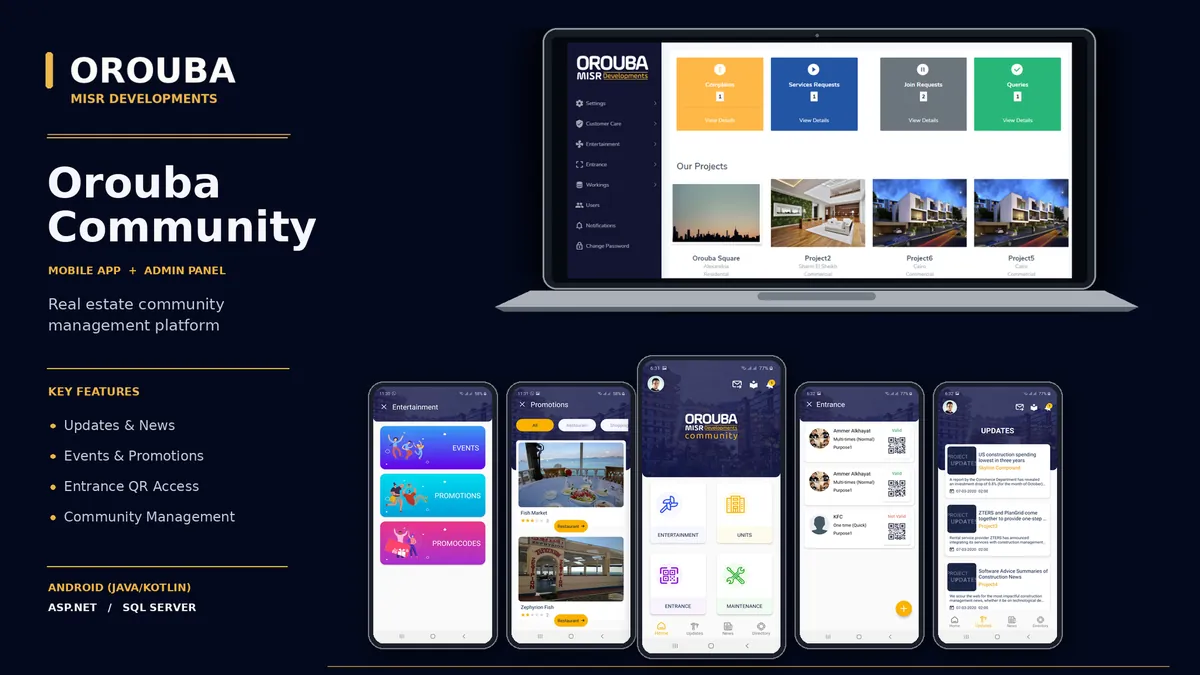
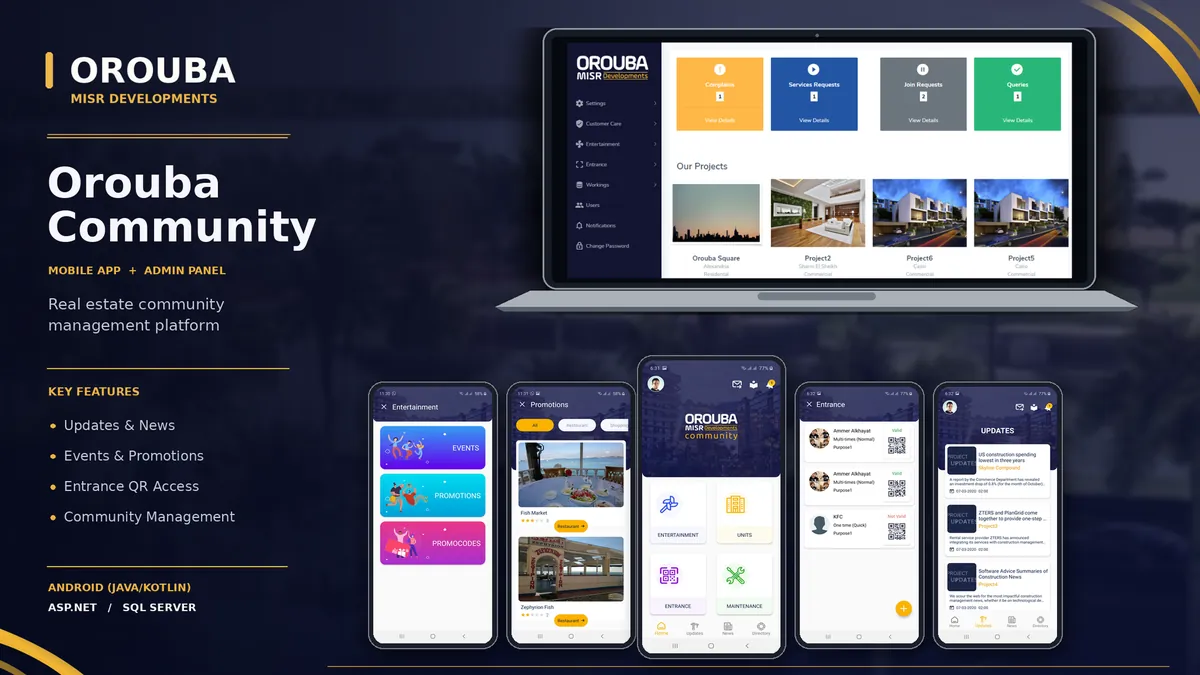
Give Orouba mockups a photo background and rename sales app to Orouba Listing

diff --git a/index.html b/index.html
@@ -137,11 +137,11 @@
                     </article>
                     <article class="project-card" data-category="real-estate">
                         <div class="project-media">
-                            <img src="images/projects/sales-real-estate.webp" alt="Orouba Sales mobile app screens: home categories, projects, project details and search" width="800" height="450" loading="lazy">
+                            <img src="images/projects/sales-real-estate.webp" alt="Orouba Listing mobile app screens: home categories, projects, project details and search" width="800" height="450" loading="lazy">
                             <span class="role-badge">Mobile &amp; Backend</span>
                         </div>
                         <div class="project-body">
-                            <h3>Sales App</h3>
+                            <h3>Orouba Listing</h3>
                             <p>Android sales app for real estate, delivered with a C# and SQL Server backend at iMATCH.</p>
                             <ul class="tags"><li>Android</li><li>C#</li><li>SQL Server</li></ul>
                             <div class="project-foot">
